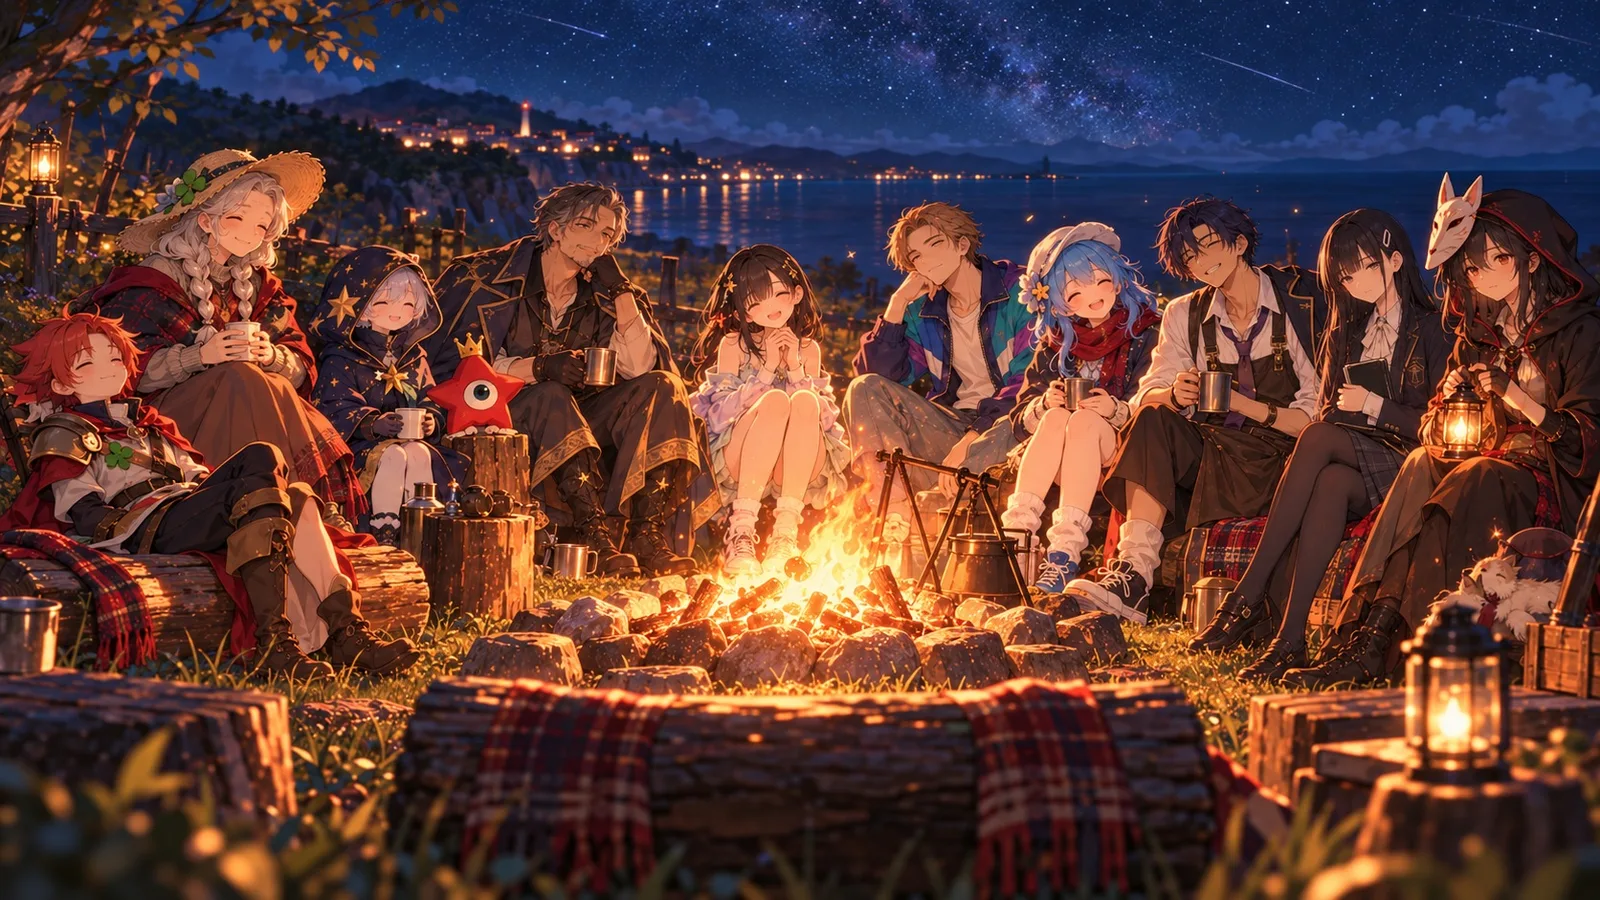
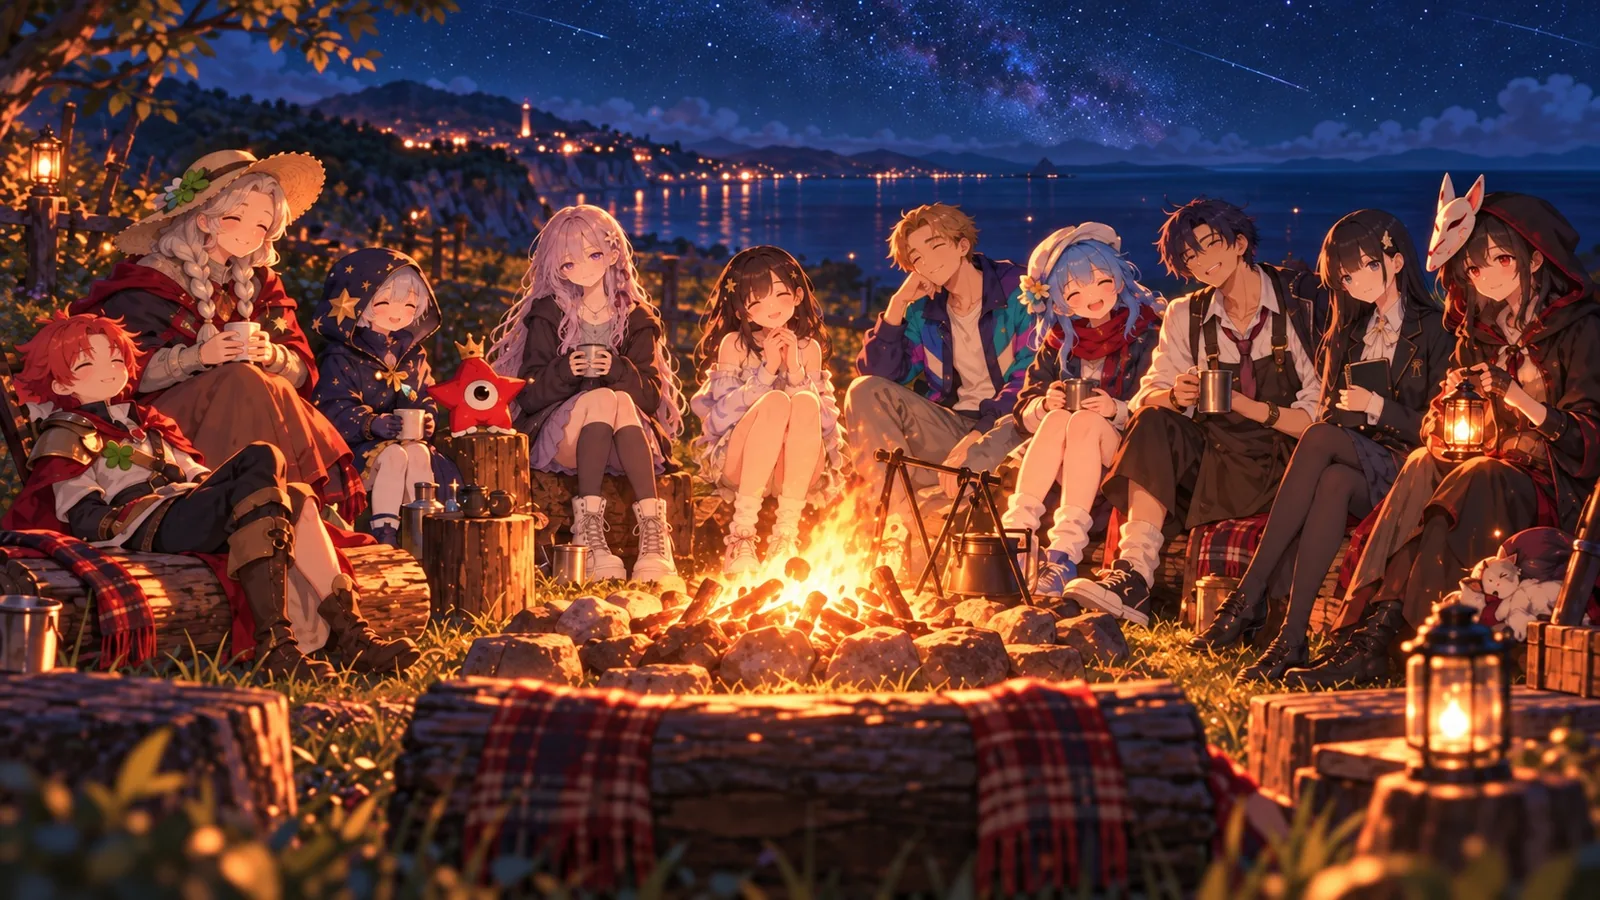
Characters: Elise joins (DeadenD 2026 design), takes Kristoph's seat at the campfire; lesson restart button
Elise: banner, token, secret outfit from her casual design, data sheet without spoilers,
four hiding spots, a meeting with Nero and a campfire line. The campfire picture swaps
Kristoph for Elise. 'Start the lesson over' (two clicks) resets only Ache's lesson;
characters, meetings and stickers stay. Advancing a page no longer drops the done flag.

Claude-Session: https://claude.ai/code/session_017CCFi9iwPuEzXLGEWu8neH

Changed region(s): [[0.0, 0.0, 1.0, 0.9022], [0.4062, 0.0, 0.75, 0.1556], [0.0625, 0.7778, 0.0938, 0.8089]]

diff --git a/assets/js/characters.js b/assets/js/characters.js
@@ -118,7 +118,6 @@ function paintShop() {
   man.innerHTML = steps().slice(0, L.step + (L.done ? 1 : 0)).filter(s => s.lesson).map(s => '<li>' + esc(s.lesson) + '</li>').join('');
   $('#machine').classList.toggle('smashed', !!L.broke);
   $('#seller').classList.toggle('unhooded', !!L.broke);
-  $('#rewatch-row').hidden = !(L.broke || (C.lesson && C.lesson.done));
   $('#r-no').textContent = L.no;
   $('#topup').hidden = L.broke; if (L.broke) $('#gemshop').hidden = true;
   $('#machine').classList.toggle('locked', !!L.locked && !L.broke); $('#topup').disabled = !!L.locked; ['#pull1', '#pull10'].forEach(q => { if (L.locked) $(q).disabled = true });
@@ -379,7 +378,7 @@ function act() {
   }
   advance();
 }
-function advance() { L.step++; write({ lesson: { step: L.step } }); showStep() }
+function advance() { L.step++; write({ lesson: Object.assign({}, read().lesson, { step: L.step }) }); showStep() }
 function smash() {
   L.broke = true; paintShop();
   const sh = $('#shards'); sh.innerHTML = '';
@@ -454,7 +453,7 @@ function renderFire() {
   if (!all) {
     side.innerHTML = '<p>The fire is laid but nobody has lit it. When every character from every world has followed you here, they\'ll sit down together, and there\'s a seat with your name on it.</p><p class="note">Still out there: ' + chars.filter(i => !copies(i.id)).map(i => esc(i.name)).join(', ') + '.</p>';
   } else {
-    if (F.img) { const im = el('img', 'fire-pic'); im.alt = 'Every character, gathered around a campfire'; im.onerror = () => im.remove(); im.src = F.img; side.append(im) }
+    if (F.img) { const im = el('img', 'fire-pic'); im.alt = 'The characters from every world, gathered around a campfire by the sea at night'; im.onerror = () => im.remove(); im.src = F.img; side.append(im) }
     const ol = el('ol', 'fire-lines'); side.append(ol);
     const b = el('button', 'btn', (C.fire ? 'Sit by the fire again' : 'Sit down') + ' <span>→</span>'); b.type = 'button';
     b.onclick = () => {
@@ -577,7 +576,15 @@ function start() {
   if (C.lesson && C.lesson.done) { startJourney(false); $('#lesson').classList.add('was-done') }
   const skip = e => { e.preventDefault(); write({ lesson: Object.assign({}, read().lesson, { done: 1 }) }); startJourney(true) };
   $('#skip').onclick = skip; $('#skip2').onclick = skip;
-  $('#replay').onclick = $('#rewatch').onclick = () => { startShop(true); $('#lesson').scrollIntoView({ behavior: 'smooth', block: 'start' }) };
+  // start over = Ache's lesson only: back to page 1, the saved page forgotten; characters, meetings and stickers stay
+  const over = () => { write({ lesson: Object.assign({}, read().lesson, { step: 0 }) }); startShop(true); $('#lesson').scrollIntoView({ behavior: 'smooth', block: 'start' }) };
+  const rw = $('#rewatch'), rmsg = $('#rewatch-msg'), rtxt = rmsg.textContent; let armed = 0;
+  rw.onclick = () => {
+    if (L.step === 0 && !L.broke) { rmsg.textContent = 'You\'re already on page 1.'; return }
+    if (!armed) { armed = setTimeout(() => { armed = 0; rw.textContent = '↺ Start the lesson over'; rmsg.textContent = rtxt }, 6000); rw.textContent = '↺ Yes, back to page 1'; rmsg.textContent = 'Click again to restart the shop. Only the lesson resets.'; return }
+    clearTimeout(armed); armed = 0; rw.textContent = '↺ Start the lesson over'; rmsg.textContent = rtxt; over();
+  };
+  $('#replay').onclick = over;
   const refresh = () => { C = read(); if (!$('#journey').hidden) renderJourney() };
   if (window.TZSAVE && TZSAVE.on) TZSAVE.on('find', refresh);
   document.addEventListener('tz:save', refresh);

diff --git a/characters.html b/characters.html
@@ -92,7 +92,7 @@
         <ol class="ph-list" id="ph-list"></ol>
       </div>
     </div>
-    <p class="note rewatch" id="rewatch-row" hidden><button type="button" class="linkish" id="rewatch">↺ Rewatch the lesson from page 1</button> (the machine comes back for one more show, then Ache breaks it again)</p>
+    <p class="note rewatch" id="rewatch-row"><button type="button" class="linkish" id="rewatch">↺ Start the lesson over</button> <span id="rewatch-msg">Back to page 1 of Ache's shop. Your characters and stickers stay.</span></p>
   </section>
 
   <section id="journey" class="journey" hidden>

diff --git a/tools/caw-tokens.py b/tools/caw-tokens.py
@@ -3,7 +3,7 @@
 import json, os
 from PIL import Image, ImageDraw, ImageFont
 R = os.path.dirname(os.path.dirname(os.path.abspath(__file__)))
-FACE = {'miriam': (.733, .14, .1), 'agata': (.667, .155, .1), 'free': (.743, .068, .07), 'kristoph': (.736, .075, .075), 'nero': (.772, .245, .075), 'prima': (.664, .204, .08), 'aqua': (.75, .169, .075), 'vesper': (.65, .13, .085), 'bianca': (.745, .11, .07), 'norman': (.636, .09, .07), 'ache': (.693, .3, .11)}
+FACE = {'miriam': (.733, .14, .1), 'agata': (.667, .155, .1), 'free': (.743, .068, .07), 'kristoph': (.736, .075, .075), 'nero': (.772, .245, .075), 'prima': (.664, .204, .08), 'aqua': (.75, .169, .075), 'vesper': (.65, .13, .085), 'bianca': (.745, .11, .07), 'norman': (.636, .09, .07), 'elise': (.729, .16, .07), 'ache': (.693, .3, .11)}
 D = json.load(open(R + '/assets/caw.json'))
 out = R + '/assets/img/caw/token/'; os.makedirs(out, exist_ok=True)
 S = 184
